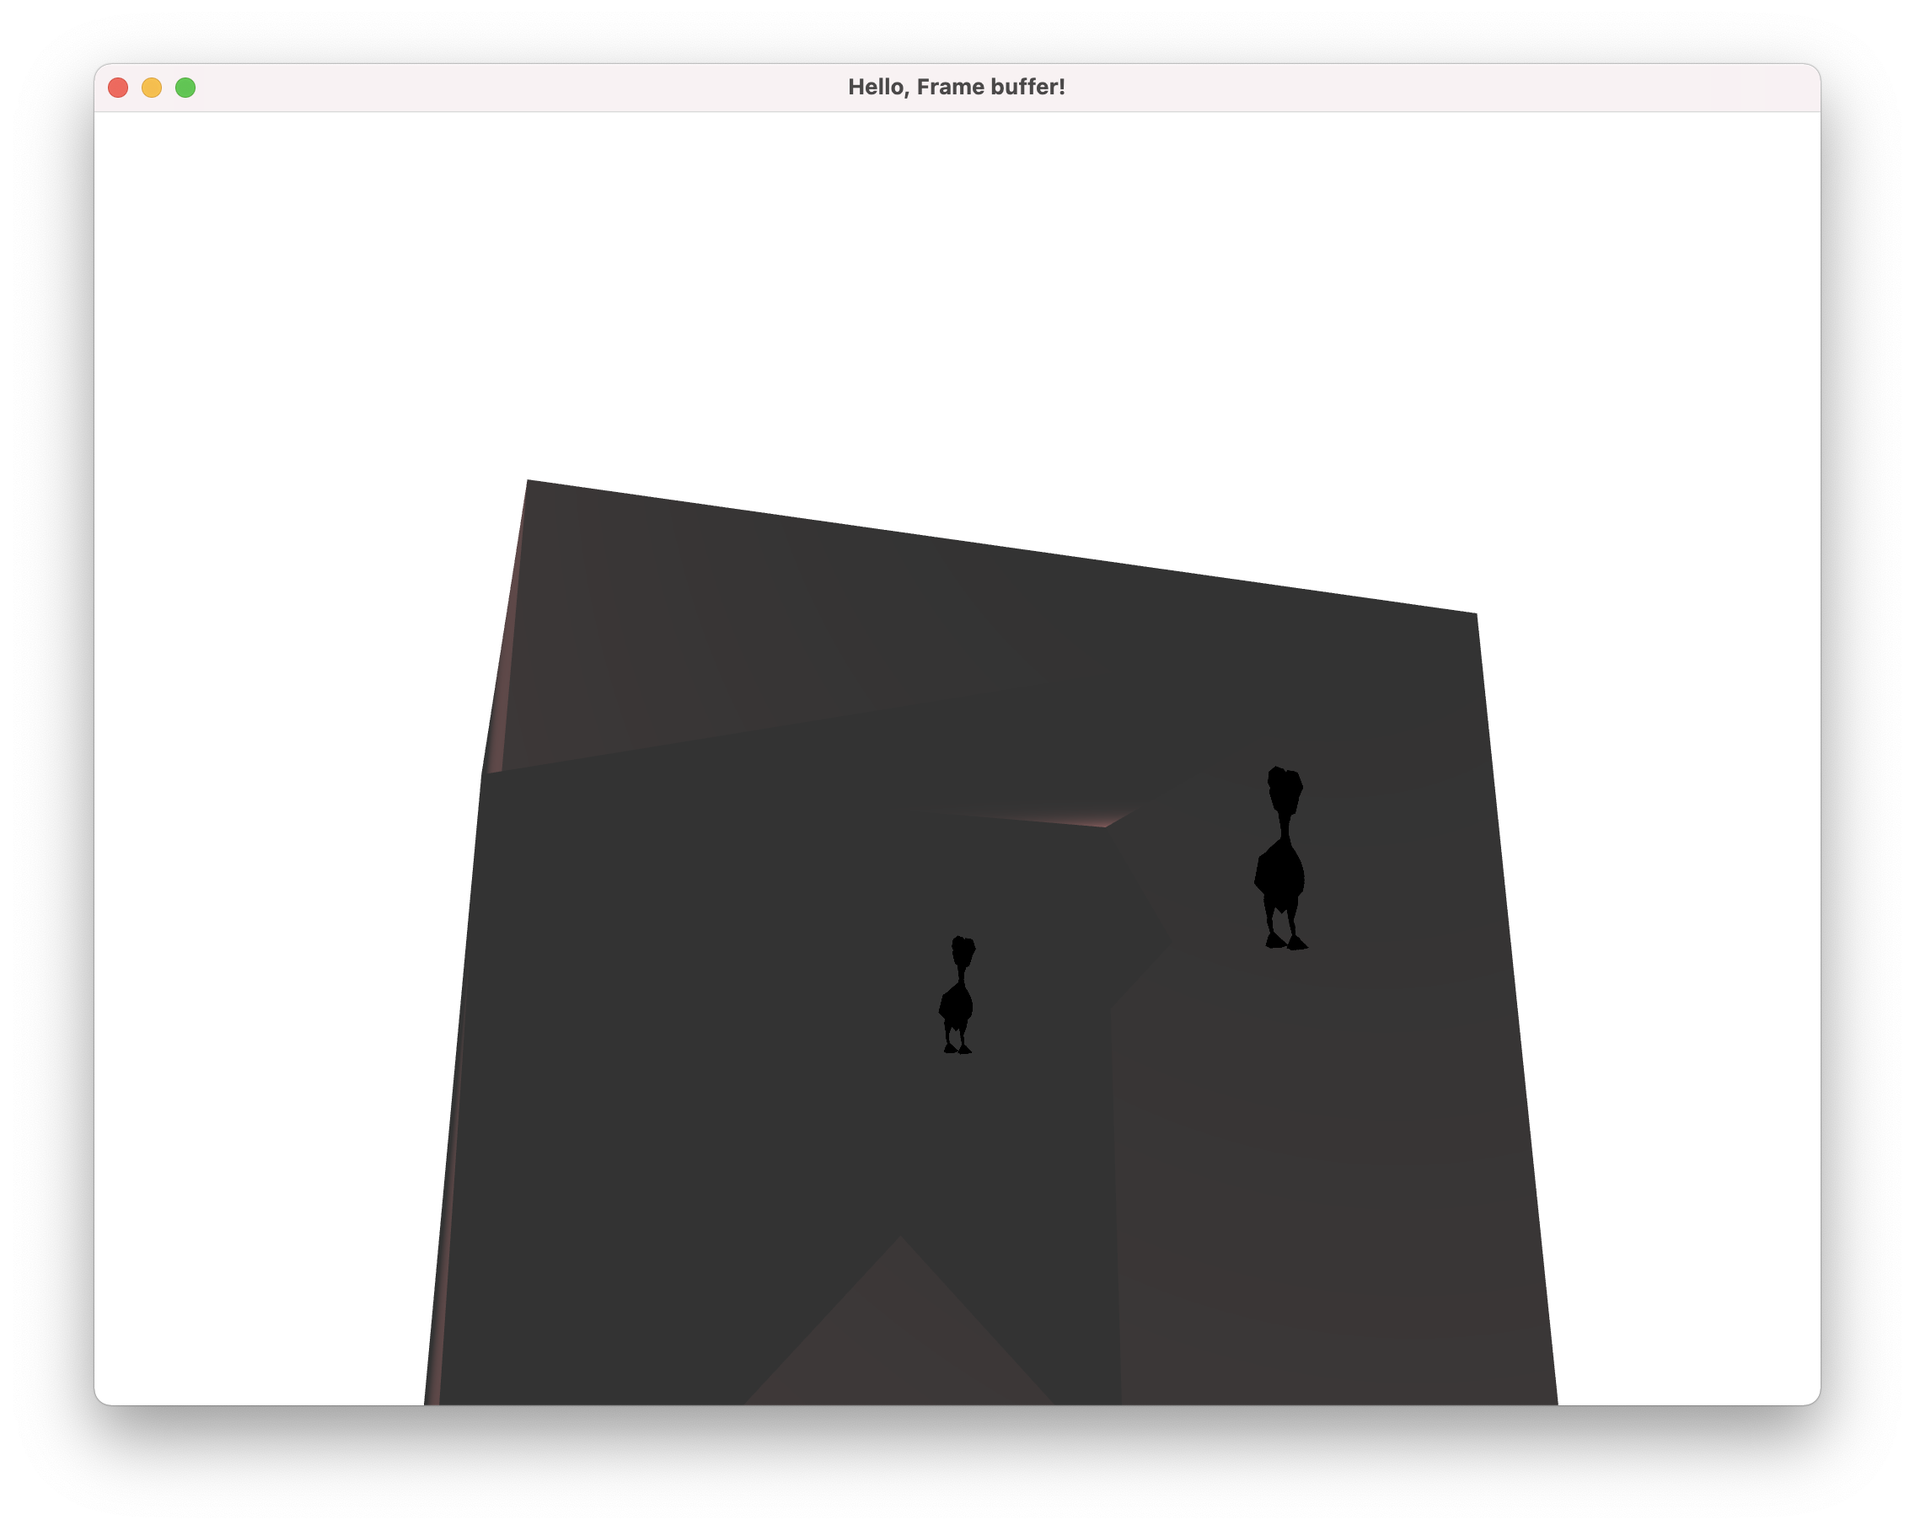
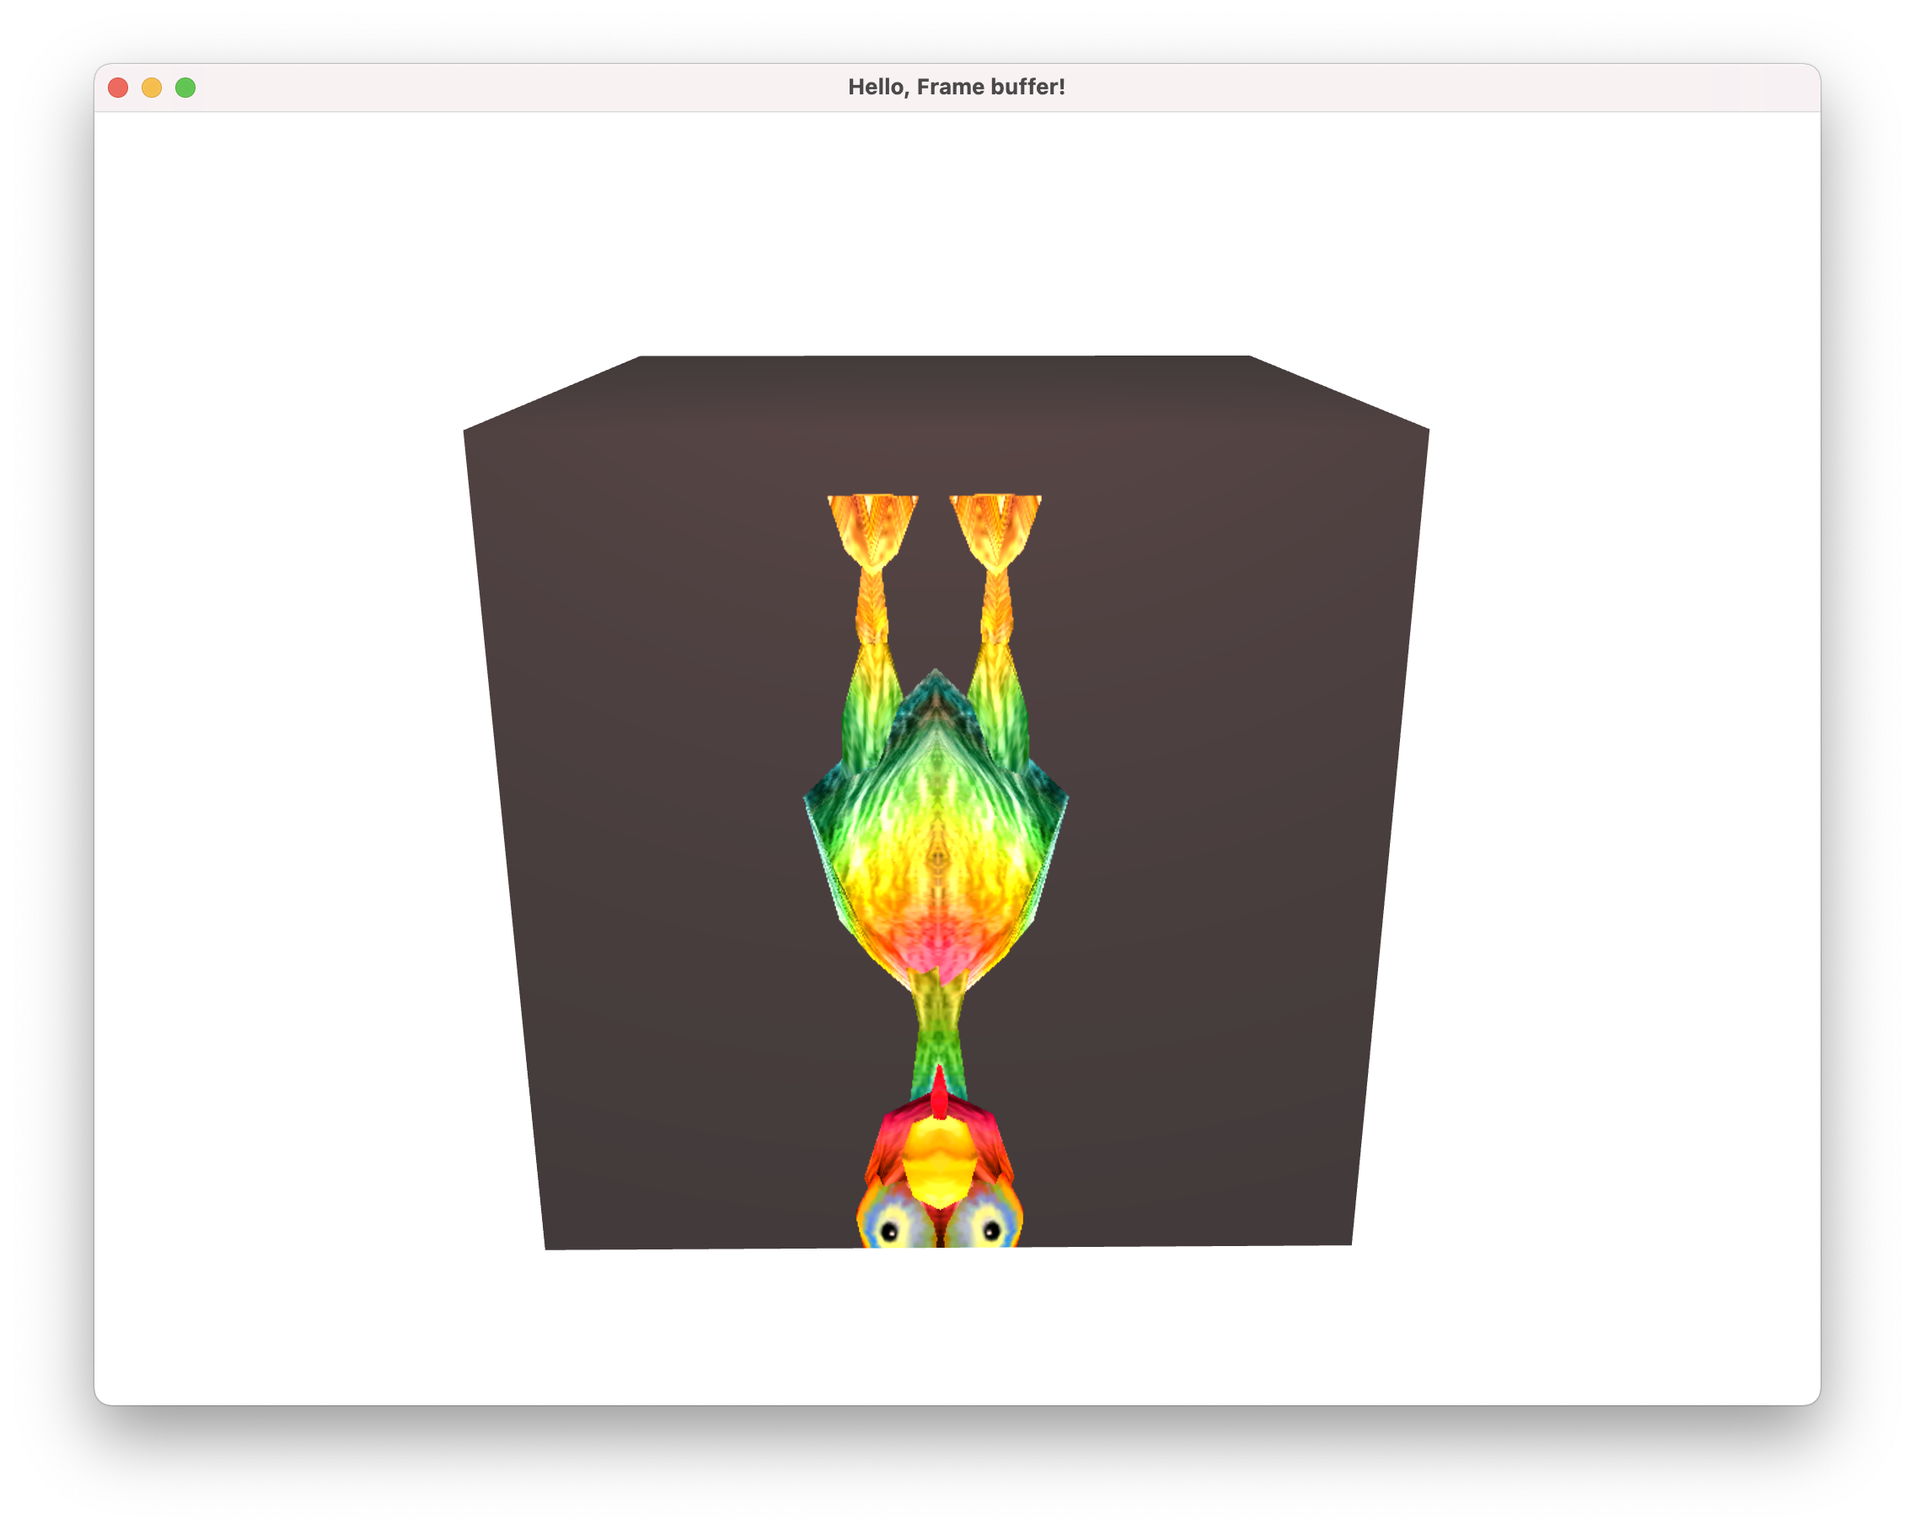
Fix texturing and rendering to texture

Changed region(s): [[0.2188, 0.2159, 0.8125, 0.9251]]

diff --git a/samples/08-frame-buffer/main.cpp b/samples/08-frame-buffer/main.cpp
@@ -1,3 +1,4 @@
+#include <filesystem>
 #include <iostream>
 #include <sstream>
 
@@ -69,7 +70,7 @@ public:
     {
     }
 
-    static std::unique_ptr<Mesh> fromAiMesh(const aiScene* scene, aiMesh* mesh)
+    static std::unique_ptr<Mesh> fromAiMesh(const aiScene* scene, aiMesh* mesh, std::vector<std::filesystem::path> materialLookupPaths = {})
     {
         std::cout << "[INFO] Creating buffer objects...";
 
@@ -179,11 +180,28 @@ public:
                 aiString str;
                 material->GetTexture(aiTextureType_DIFFUSE, i, &str);
 
-                std::cout << "[INFO] Loading DIFFUSE texture " << str.C_Str() << "...";
+                std::string imagePath{ str.C_Str() };
+
+                // TODO: extract the "std::string resolveFile(std::string)" helper
+                /* std::vector<std::filesystem::path> lookupPaths = {
+                    imagePath,
+                    std::filesystem::path{ "../" + imagePath }
+                };*/
+
+                for (auto path : materialLookupPaths) {
+                    std::cout << "[INFO] Looking up the DIFFUSE texture in " << path << "...";
+
+                    if (std::filesystem::exists(std::filesystem::path(path) / imagePath)) {
+                        imagePath = std::filesystem::path(path) / imagePath;
+                        break;
+                    }
+                }
+
+                std::cout << "[INFO] Loading DIFFUSE texture " << imagePath << "...";
 
                 sf::Image textureImage;
 
-                if (!textureImage.loadFromFile(str.C_Str()))
+                if (!textureImage.loadFromFile(imagePath))
                 {
                     std::cerr << "[ERROR] Can not load texture" << std::endl;
                     continue;
@@ -286,11 +304,11 @@ public:
     {
     }
 
-    static std::unique_ptr<Model> fromAiNode(const aiScene* scene, aiNode* node)
+    static std::unique_ptr<Model> fromAiNode(const aiScene* scene, aiNode* node, std::vector<std::filesystem::path> materialLookupPaths = {})
     {
         std::vector<std::unique_ptr<Mesh>> meshes;
 
-        processAiNode(scene, node, meshes);
+        processAiNode(scene, node, materialLookupPaths, meshes);
 
         return std::make_unique<Model>(std::move(meshes));
     }
@@ -330,11 +348,11 @@ public:
     }
 
 protected:
-    static void processAiNode(const aiScene* scene, aiNode* node, std::vector<std::unique_ptr<Mesh>>& meshes)
+    static void processAiNode(const aiScene* scene, aiNode* node, std::vector<std::filesystem::path> materialLookupPaths, std::vector<std::unique_ptr<Mesh>>& meshes)
     {
         for (auto t = 0; t < node->mNumMeshes; ++t)
         {
-            auto mesh = Mesh::fromAiMesh(scene, scene->mMeshes[node->mMeshes[t]]);
+            auto mesh = Mesh::fromAiMesh(scene, scene->mMeshes[node->mMeshes[t]], materialLookupPaths);
             meshes.push_back(std::move(mesh));
         }
 
@@ -343,7 +361,7 @@ protected:
             auto child = node->mChildren[i];
             // auto childTransformation = parentTransformation + assimpMatrixToGlm(child->mTransformation);
 
-            processAiNode(scene, child, meshes);
+            processAiNode(scene, child, materialLookupPaths, meshes);
         }
     }
 
@@ -384,110 +402,98 @@ int main()
 
     std::cout << "[INFO] Creating shaders..." << std::endl;
 
-    std::cout << "[INFO] Compiling vertex shader...";
+    std::cout << "[INFO] Compiling model rendering vertex shader...";
 
-    auto vertexProgram = std::make_unique<globjects::Program>();
-    auto vertexShaderSource = globjects::Shader::sourceFromFile("media/vertex.glsl");
-    auto vertexShaderTemplate = globjects::Shader::applyGlobalReplacements(vertexShaderSource.get());
-    auto vertexShader = std::make_unique<globjects::Shader>(static_cast<gl::GLenum>(GL_VERTEX_SHADER), vertexShaderTemplate.get());
+    auto modelRenderingVertexProgram = std::make_unique<globjects::Program>();
+    auto modelRenderingVertexShaderSource = globjects::Shader::sourceFromFile("media/model-rendering.vert");
+    auto modelRenderingVertexShaderTemplate = globjects::Shader::applyGlobalReplacements(modelRenderingVertexShaderSource.get());
+    auto modelRenderingVertexShader = std::make_unique<globjects::Shader>(static_cast<gl::GLenum>(GL_VERTEX_SHADER), modelRenderingVertexShaderTemplate.get());
 
-    if (!vertexShader->compile())
+    if (!modelRenderingVertexShader->compile())
     {
-        std::cerr << "[ERROR] Can not compile vertex shader" << std::endl;
+        std::cerr << "[ERROR] Can not compile model rendering vertex shader" << std::endl;
         return 1;
     }
 
-    vertexProgram->attach(vertexShader.get());
+    modelRenderingVertexProgram->attach(modelRenderingVertexShader.get());
 
-    auto modelTransformationUniform = vertexProgram->getUniform<glm::mat4>("model");
-    auto viewTransformationUniform = vertexProgram->getUniform<glm::mat4>("view");
-    auto projectionTransformationUniform = vertexProgram->getUniform<glm::mat4>("projection");
+    auto modelTransformationUniform = modelRenderingVertexProgram->getUniform<glm::mat4>("model");
+    auto viewTransformationUniform = modelRenderingVertexProgram->getUniform<glm::mat4>("view");
+    auto projectionTransformationUniform = modelRenderingVertexProgram->getUniform<glm::mat4>("projection");
 
     std::cout << "done" << std::endl;
 
-    std::cout << "[INFO] Compiling fragment shader...";
+    std::cout << "[INFO] Compiling model rendering fragment shader...";
 
-    auto fragmentProgram = std::make_unique<globjects::Program>();
-    auto fragmentShaderSource = globjects::Shader::sourceFromFile("media/fragment.glsl");
-    auto fragmentShaderTemplate = globjects::Shader::applyGlobalReplacements(fragmentShaderSource.get());
-    auto fragmentShader = std::make_unique<globjects::Shader>(static_cast<gl::GLenum>(GL_FRAGMENT_SHADER), fragmentShaderTemplate.get());
+    auto modelRenderingFragmentProgram = std::make_unique<globjects::Program>();
+    auto modelRenderingFragmentShaderSource = globjects::Shader::sourceFromFile("media/model-rendering.frag");
+    auto modelRenderingFragmentShaderTemplate = globjects::Shader::applyGlobalReplacements(modelRenderingFragmentShaderSource.get());
+    auto modelRenderingFragmentShader = std::make_unique<globjects::Shader>(static_cast<gl::GLenum>(GL_FRAGMENT_SHADER), modelRenderingFragmentShaderTemplate.get());
 
-    if (!fragmentShader->compile())
+    if (!modelRenderingFragmentShader->compile())
     {
-        std::cerr << "[ERROR] Can not compile fragment shader" << std::endl;
+        std::cerr << "[ERROR] Can not compile chicken fragment shader" << std::endl;
         return 1;
     }
 
-    fragmentProgram->attach(fragmentShader.get());
+    modelRenderingFragmentProgram->attach(modelRenderingFragmentShader.get());
 
-    auto lightPositionUniform = fragmentProgram->getUniform<glm::vec3>("lightPosition");
-    auto lightColorUniform = fragmentProgram->getUniform<glm::vec3>("lightColor");
-    auto ambientColorUniform = fragmentProgram->getUniform<glm::vec3>("ambientColor");
-    auto materialSpecularUniform = fragmentProgram->getUniform<float>("materialSpecular");
-    auto cameraPositionUniform = fragmentProgram->getUniform<glm::vec3>("cameraPosition");
-
-    std::cout << "done" << std::endl;
-
-    std::cout << "[INFO] Creating rendering pipeline...";
-
-    auto programPipeline = std::make_unique<globjects::ProgramPipeline>();
-
-    programPipeline->useStages(vertexProgram.get(), gl::GL_VERTEX_SHADER_BIT);
-    programPipeline->useStages(fragmentProgram.get(), gl::GL_FRAGMENT_SHADER_BIT);
+    auto lightPositionUniform = modelRenderingFragmentProgram->getUniform<glm::vec3>("lightPosition");
+    auto lightColorUniform = modelRenderingFragmentProgram->getUniform<glm::vec3>("lightColor");
+    auto ambientColorUniform = modelRenderingFragmentProgram->getUniform<glm::vec3>("ambientColor");
+    auto diffuseColorUniform = modelRenderingFragmentProgram->getUniform<glm::vec3>("diffuseColor");
+    auto materialSpecularUniform = modelRenderingFragmentProgram->getUniform<float>("materialSpecular");
+    auto cameraPositionUniform = modelRenderingFragmentProgram->getUniform<glm::vec3>("cameraPosition");
 
     std::cout << "done" << std::endl;
 
-    std::cout << "[INFO] Loading 3D model...";
+    std::cout << "[INFO] Creating model rendering pipeline...";
+
+    auto modelRenderingPipeline = std::make_unique<globjects::ProgramPipeline>();
+
+    modelRenderingPipeline->useStages(modelRenderingVertexProgram.get(), gl::GL_VERTEX_SHADER_BIT);
+    modelRenderingPipeline->useStages(modelRenderingFragmentProgram.get(), gl::GL_FRAGMENT_SHADER_BIT);
+
+    std::cout << "done" << std::endl;
+
+    std::cout << "[INFO] Loading chicken 3D model...";
 
     Assimp::Importer importer;
 
-    auto scene = importer.ReadFile("media/Chicken.3ds",
-                                   aiProcess_Triangulate
-                                       // | aiProcess_CalcTangentSpace
-                                       // | aiProcess_JoinIdenticalVertices
-                                       // | aiProcess_SortByPType
-                                       | aiProcess_RemoveRedundantMaterials
-                                       | aiProcess_GenUVCoords
-                                       | aiProcess_GenNormals
-                                       | aiProcess_TransformUVCoords);
+    auto chickenScene = importer.ReadFile("media/Chicken.3ds", 0);
 
-    if (!scene)
+    if (!chickenScene)
     {
         std::cerr << "failed: " << importer.GetErrorString() << std::endl;
         return 1;
     }
 
-    auto model = Model::fromAiNode(scene, scene->mRootNode);
-
-    auto scene2 = importer.ReadFile("media/cube.obj",
-                                    aiProcess_Triangulate
-                                        // | aiProcess_CalcTangentSpace
-                                        // | aiProcess_JoinIdenticalVertices
-                                        // | aiProcess_SortByPType
-                                        | aiProcess_RemoveRedundantMaterials
-                                        | aiProcess_GenUVCoords
-                                        | aiProcess_GenNormals
-                                        | aiProcess_TransformUVCoords);
-
-    if (!scene2)
-    {
-        std::cerr << "failed: " << importer.GetErrorString() << std::endl;
-        return 1;
-    }
-
-    auto cubeModel = Model::fromAiNode(scene2, scene2->mRootNode);
+    auto chickenModel = Model::fromAiNode(chickenScene, chickenScene->mRootNode, { "media" });
 
     // INFO: this transformation is hard-coded specifically for Chicken.3ds model
-    auto transformation = glm::mat4(1.0f);
-
-    transformation = glm::scale(transformation, glm::vec3(0.01f));
-    transformation = glm::rotate(transformation, glm::radians(-90.0f), glm::vec3(1.0f, 0, 0));
-
-    model->setTransformation(transformation);
+    chickenModel->setTransformation(glm::rotate(glm::scale(glm::mat4(1.0f), glm::vec3(0.01f)), glm::radians(-90.0f), glm::vec3(1.0f, 0, 0)));
 
     std::cout << "done" << std::endl;
 
-    std::cout << "[DEBUG] Initializing framebuffers...";
+    std::cout << "[INFO] Loading cube 3D model...";
+
+    auto cubeScene = importer.ReadFile("media/cube.obj", 0);
+
+    if (!cubeScene)
+    {
+        std::cerr << "failed: " << importer.GetErrorString() << std::endl;
+        return 1;
+    }
+
+    auto cubeModel = Model::fromAiNode(cubeScene, cubeScene->mRootNode);
+
+    cubeModel->setTransformation(glm::mat4(1.0f));
+
+    std::cout << "done" << std::endl;
+
+    std::cout << "[DEBUG] Initializing framebuffers..." << std::endl;
+
+    std::cout << "[DEBUG] Initializing depthColorTexture...";
 
     auto depthColorTexture = std::make_unique<globjects::Texture>(static_cast<gl::GLenum>(GL_TEXTURE_2D));
 
@@ -496,8 +502,6 @@ int main()
 
     depthColorTexture->setParameter(static_cast<gl::GLenum>(GL_TEXTURE_WRAP_S), static_cast<gl::GLenum>(GL_CLAMP_TO_EDGE));
     depthColorTexture->setParameter(static_cast<gl::GLenum>(GL_TEXTURE_WRAP_T), static_cast<gl::GLenum>(GL_CLAMP_TO_EDGE));
-
-    std::cout << "[depthColorTexture";
 
     depthColorTexture->image2D(
         0,
@@ -508,10 +512,16 @@ int main()
         static_cast<gl::GLenum>(GL_UNSIGNED_INT),
         nullptr);
 
-    std::cout << " - ok]";
+    std::cout << "done" << std::endl;
+
+    std::cout << "[DEBUG] Initializing renderBuffer...";
 
     auto renderBuffer = std::make_unique<globjects::Renderbuffer>();
     renderBuffer->storage(static_cast<gl::GLenum>(GL_DEPTH24_STENCIL8), window.getSize().x, window.getSize().y);
+
+    std::cout << "done" << std::endl;
+
+    std::cout << "[DEBUG] Initializing frameBuffer...";
 
     auto framebuffer = std::make_unique<globjects::Framebuffer>();
     framebuffer->attachTexture(static_cast<gl::GLenum>(GL_COLOR_ATTACHMENT0), depthColorTexture.get());
@@ -529,10 +539,12 @@ int main()
     const float cameraMoveSpeed = 1.0f;
     const float cameraRotateSpeed = 10.0f;
 
-    glm::vec3 cameraPos = glm::vec3(0.0f, 0.0f, 3.0f);
+    glm::vec3 cameraPos = glm::vec3(0.0f, 1.0f, 3.0f);
     glm::vec3 cameraUp = glm::vec3(0.0f, 1.0f, 0.0f);
     glm::vec3 cameraRight = glm::vec3(1.0f, 0.0f, 0.0f);
     glm::vec3 cameraForward = glm::normalize(glm::cross(cameraUp, cameraRight));
+
+    glm::vec3 lightPosition = glm::vec3(0.0f, 2.0f, 2.0f);
 
     sf::Clock clock;
 
@@ -602,24 +614,24 @@ int main()
             cameraPos += glm::normalize(glm::cross(cameraForward, cameraUp)) * cameraMoveSpeed * deltaTime;
         }
 
-        glm::mat4 projection = glm::perspective(glm::radians(fov), (float) window.getSize().x / (float) window.getSize().y, 0.1f, 100.0f);
+        glm::mat4 cameraProjection = glm::perspective(glm::radians(fov), (float) window.getSize().x / (float) window.getSize().y, 0.1f, 100.0f);
 
-        glm::mat4 view = glm::lookAt(
+        glm::mat4 cameraView = glm::lookAt(
             cameraPos,
             cameraPos + cameraForward,
             cameraUp);
 
-        modelTransformationUniform->set(model->getTransformation());
-        viewTransformationUniform->set(view);
-        projectionTransformationUniform->set(projection);
+        glm::mat4 renderingToTextureProjection = glm::perspective(glm::radians(fov), (float) window.getSize().x / (float) window.getSize().y, 0.1f, 100.0f);
 
-        lightPositionUniform->set(glm::vec3(-2, 2, 2));
+        glm::mat4 renderingToTextureView = glm::lookAt(glm::vec3(0.0f, 0.0f, 4.5f), glm::vec3(0.0f, 1.0f, 2.0f), glm::vec3(0.0f, 1.0f, 0.0f));
+
+        lightPositionUniform->set(lightPosition);
         lightColorUniform->set(glm::vec3(1, 0.5, 0.5));
         ambientColorUniform->set(glm::vec3(1.0f, 1.0f, 1.0f));
         materialSpecularUniform->set(12.0f);
         cameraPositionUniform->set(cameraPos);
 
-        // depthCameraPositionUniform->set(cameraPos);
+        diffuseColorUniform->set(glm::vec4(1.0, 1.0, 1.0, 1.0));
 
         // first render pass - render depth to texture
 
@@ -632,33 +644,44 @@ int main()
 
         glEnable(GL_DEPTH_TEST);
 
-        programPipeline->use();
+        modelRenderingPipeline->use();
 
-        model->bind();
-        model->draw();
-        model->unbind();
+        // draw chicken
+
+        projectionTransformationUniform->set(renderingToTextureProjection);
+        viewTransformationUniform->set(renderingToTextureView);
+
+        modelTransformationUniform->set(chickenModel->getTransformation());
+
+        chickenModel->bind();
+        chickenModel->draw();
+        chickenModel->unbind();
+
+        modelRenderingPipeline->release();
 
         framebuffer->unbind();
 
         // second pass - switch to normal shader and render picture with depth information to the viewport
 
-        globjects::Framebuffer::defaultFBO()->bind();
-
-        glDisable(GL_DEPTH_TEST);
-
         ::glClearColor(static_cast<gl::GLfloat>(1.0f), static_cast<gl::GLfloat>(1.0f), static_cast<gl::GLfloat>(1.0f), static_cast<gl::GLfloat>(1.0f));
-        glClear(GL_COLOR_BUFFER_BIT);
+        glClear(GL_COLOR_BUFFER_BIT | GL_DEPTH_BUFFER_BIT);
 
-        cubeModel->bind();
+        modelRenderingPipeline->use();
 
-        modelTransformationUniform->set(glm::mat4(1.0f));
+        projectionTransformationUniform->set(cameraProjection);
+        viewTransformationUniform->set(cameraView);
+
+        modelTransformationUniform->set(cubeModel->getTransformation());
 
         depthColorTexture->bind();
+
+        cubeModel->bind();
         cubeModel->draw();
-        depthColorTexture->unbind();
         cubeModel->unbind();
 
-        programPipeline->release();
+        depthColorTexture->unbind();
+
+        modelRenderingPipeline->release();
 
         window.display();
 
